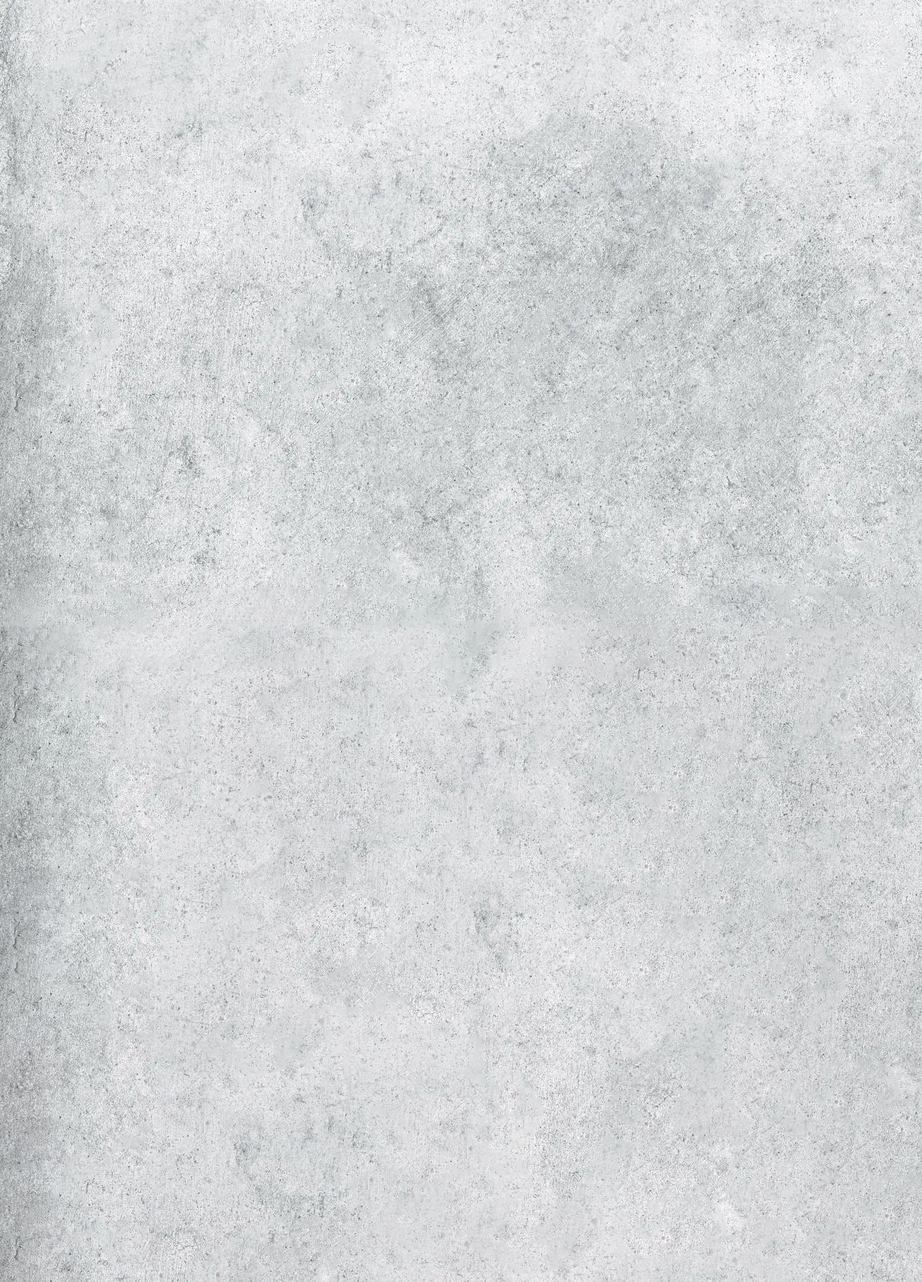
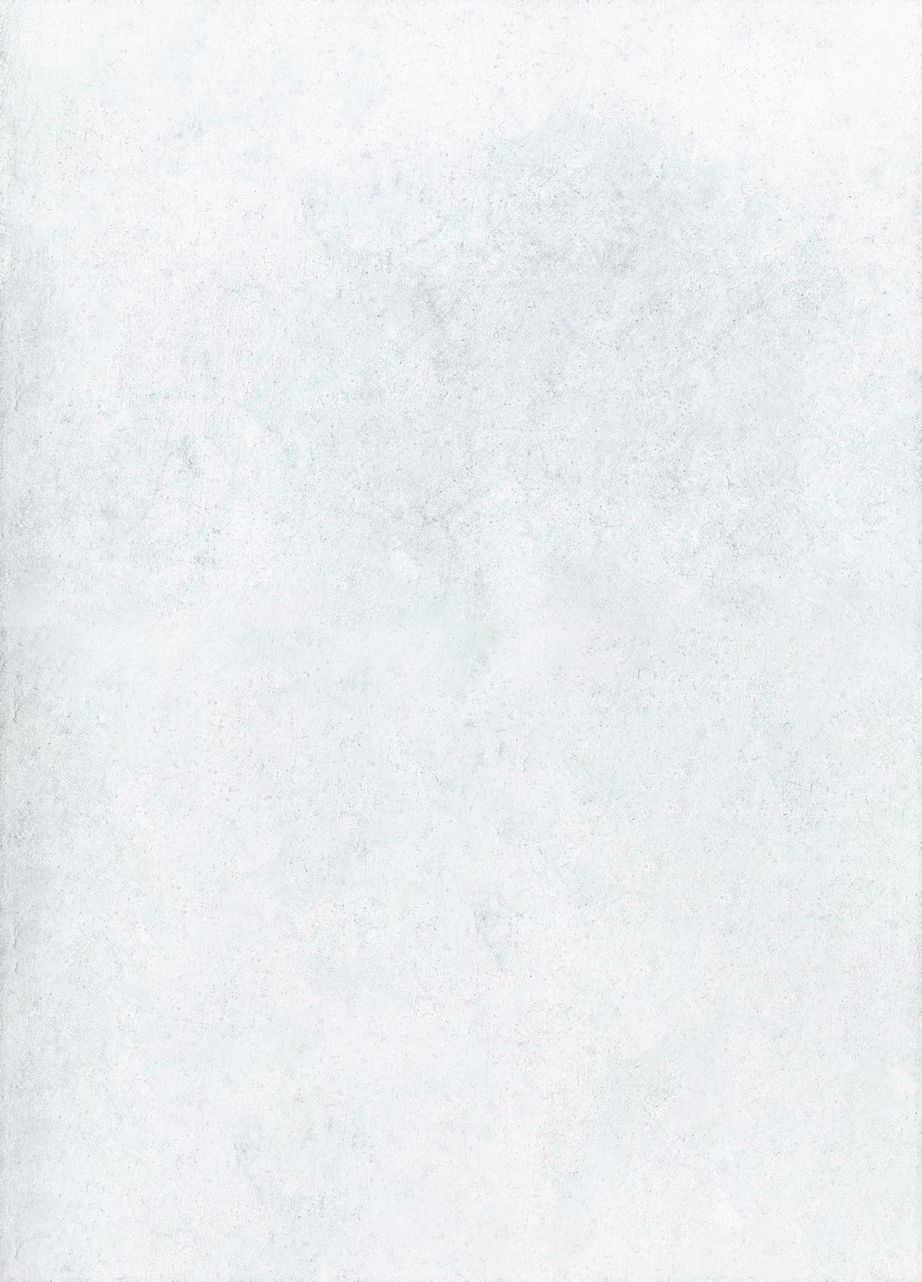
update: inicio, test 1

diff --git a/STANNUM-FrontEnd/src/Pages/Inicio/Inicio.jsx b/STANNUM-FrontEnd/src/Pages/Inicio/Inicio.jsx
@@ -6,10 +6,60 @@ function Inicio() {
   return (
     <>
       <div className='d-flex flex-column align-items-center'>
-        <div className='text-center mt-5'><h1 className='tituloBienvenido'>¡Bienvenido a<br/><span className='tituloBienvenidoVerde'>Stannum Academy!</span></h1></div>
-        <div className='parrafoBienvenidaCentro text-center'><p>Este es el <b>centro de alto rendimiento</b> en donde podrás adquirir los conocimientos y las habilidades necesarias para llevar a tu emprendimiento al siguiente nivel</p></div>
-        <div className='text-center mt-5'><h2 className='tusPrimerosPasos'>Tus primeros pasos</h2></div>
+        <div className='text-center mt-5'><h1 className='tituloBienvenido'>¡Bienvenido a</h1></div>
+        <div className='text-center'><h1 className='tituloBienvenidoVerde'>Stannum Academy!</h1></div>
+        <div className='parrafoBienvenidaCentro text-center'><p>Este es el <b>centro de alto rendimiento</b> en donde podrás adquirir los conocimientos y las habilidades necesarias para llevar a tu emprendimiento al siguiente nivel.</p></div>
+        <div className='text-center mt-4'><h2 className='tusPrimerosPasos'>Tus primeros pasos</h2></div>
+        <div className='parrafoPrimerosPasos text-center'><p>Para poder comenzar tu camino dentro de Stannum Academy es necesario que completes los siguientes Tests de Dominio, ¡la información obtenida de ellos nos permitirá construir tu plantilla de jugador!.</p></div>
       </div>
+      <div className='contenedorCardsTest'>
+        <div className='text-center seleccioneTestTitulo'>Seleccione el Test que<br/>desea responder</div>
+        <div className='d-flex flex-column align-items-center flex-wrap cajaCardsTest'>
+          <div className='d-flex justify-content-evenly flexCardsTests'>
+            <div className='cardTest'>
+              <div className='tituloDominio tituloDominio1 text-center'>DOMINIO 1</div>
+              <div className='subtituloDominio tituloDominio1 text-center'>DIRECTIVO</div>
+              <hr className='hrDominio'/>
+              <a href='/Test/Dominio/Directivo'>
+                <button className='botonDominio botonDominio1'>Hacer el test</button>
+              </a>
+            </div>
+            <div className='cardTest'>
+              <div className='tituloDominio tituloDominio2 text-center'>DOMINIO 2</div>
+              <div className='subtituloDominio tituloDominio2 text-center'>TIEMPO</div>
+              <hr className='hrDominio'/>
+              <button className='botonDominio botonDominio2' disabled="true">Próximamente</button>
+            </div>
+            <div className='cardTest'>
+              <div className='tituloDominio tituloDominio3 text-center'>DOMINIO 3</div>
+              <div className='subtituloDominio tituloDominio3 text-center'>COMUNICACION</div>
+              <hr className='hrDominio'/>
+              <button className='botonDominio botonDominio3' disabled="true">Próximamente</button>
+            </div>
+          </div>
+          <div className='d-flex justify-content-evenly flexCardsTests'>
+            <div className='cardTest'>
+              <div className='tituloDominio tituloDominio4 text-center'>DOMINIO 4</div>
+              <div className='subtituloDominio tituloDominio4 text-center'>DELEGACION</div>
+              <hr className='hrDominio'/>
+              <button className='botonDominio botonDominio4' disabled="true">Próximamente</button>
+            </div>
+            <div className='cardTest'>
+              <div className='tituloDominio tituloDominio5 text-center'>DOMINIO 5</div>
+              <div className='subtituloDominio tituloDominio5 text-center'>ORGANIZACION</div>
+              <hr className='hrDominio'/>
+              <button className='botonDominio botonDominio5' disabled="true">Próximamente</button>
+            </div>
+            <div className='cardTest'>
+              <div className='tituloDominio tituloDominio6 text-center'>DOMINIO 6</div>
+              <div className='subtituloDominio tituloDominio6 text-center'>PLANIFICACION</div>
+              <hr className='hrDominio'/>
+              <button className='botonDominio botonDominio6' disabled="true">Próximamente</button>
+            </div>
+          </div>
+        </div>
+      </div>
+      
     </>
   )
 }

diff --git a/STANNUM-FrontEnd/src/Pages/Inicio/inicio.css b/STANNUM-FrontEnd/src/Pages/Inicio/inicio.css
@@ -32,3 +32,139 @@
     line-height: 45px;
     color: #67CCB9;
 }
+
+.parrafoPrimerosPasos{
+    margin-top: 0rem;
+    width: 40%;
+    font-weight: 400;
+    font-size: 1.2rem;
+    line-height: 1.8rem;
+    text-align: center;
+    color: #505050;
+}
+
+.contenedorCardsTest{
+    margin-top: 3rem;
+    width: 100%;
+    padding-top: 3rem;
+    background-color: #67cfbc;
+    background-image: url("../../assets/Concrete.png");
+    background-size: cover;
+    background-repeat: no-repeat;
+    background-blend-mode: multiply;
+    padding-bottom: 4rem;
+}
+
+.seleccioneTestTitulo{
+    margin: auto;
+    font-weight: 600;
+    font-size: 2.6rem;
+    line-height: 2.6rem;
+    color: #FFFFFF;
+}
+
+.cajaCardsTest{
+    width: 100%;
+}
+
+.cardTest {
+    padding: 2rem;
+    width: 20%;
+    background-color: white;
+    box-shadow: 0px 5.39818px 10.7964px -1.34954px rgba(0, 0, 0, 0.25);
+    border-radius: 10.7964px;
+}
+
+.tituloDominio{
+    text-align: center;
+    font-weight: 900;
+    font-size: 1.9rem;
+}
+
+.subtituloDominio{
+    text-align: center;
+    font-weight: 900;
+    font-size: 1.6rem;
+    margin-top: -1rem;
+}
+
+.tituloDominio1{
+    color: #CD0133;
+}
+
+.tituloDominio2{
+    color: #35B4B6;
+}
+
+.tituloDominio3{
+    color: #FFCA1A;
+}
+
+.tituloDominio4{
+    color: #4EA86A;
+}
+
+.tituloDominio5{
+    color: #FE832F;
+}
+
+.tituloDominio6{
+    color: #6A279B;
+}
+
+
+.hrDominio{
+    width: 90%;
+    background-color: #4F4F4F;
+    margin: auto;
+    margin-top: 1.5rem;
+    margin-bottom: 1.5rem;
+}
+
+.botonDominio{
+    width: 100%;
+    border-radius: 5.39818px;
+    padding-block: 1rem;
+    font-size: 1.3rem;
+}
+
+.botonDominio1{
+    background: #CD0133;
+    border: 1.34954px solid #CD0133;
+    color: white;
+}
+
+.botonDominio2{
+    background: #FFFFFF;
+    color: #4EBDBF;
+    border: 2.69909px dashed #4EBDBF;
+}
+
+.botonDominio3{
+    background: #FFFFFF;
+    color: #FFCA1A;
+    border: 2.69909px dashed #FFCA1A;
+}
+
+.botonDominio4{
+    background: #FFFFFF;
+    color: #4EA86A;
+    border: 2.69909px dashed #4EA86A;
+}
+
+.botonDominio5{
+    background: #FFFFFF;
+    color: #FE832F;
+    border: 2.69909px dashed #FE832F;
+}
+
+.botonDominio6{
+    background: #FFFFFF;
+    color: #6A279B;
+    border: 2.69909px dashed #6A279B;
+}
+
+.flexCardsTests{
+    width: 70%;
+    margin-top: 3rem;
+}

diff --git a/STANNUM-FrontEnd/src/Pages/TestDirectivo/TestDirectivo.jsx b/STANNUM-FrontEnd/src/Pages/TestDirectivo/TestDirectivo.jsx
@@ -1,0 +1,19 @@
+import React from 'react'
+import './testDirectivo.css'
+
+function TestDirectivo() {
+  return (
+    <>
+        <div className='d-flex flex-column align-items-center'>
+            <div className='text-center mt-5'><h1 className='tituloDominio1Test'>Test de Dominio 1</h1></div>
+            <div className='text-center'><h1 className='tituloDominio1TestRojo'>DIRECTIVO</h1></div>
+            <div className='parrafoBienvenidaCentro text-center'><p>¡En este test se pondrán a prueba tus conocimientos sobre las capacidades directivas para saber que tipo de perfil tienes!</p></div>
+            <div className='text-center mt-4'><h2 className='importanteDominio1TestRojo'>¡Importante!</h2></div>
+            <div className='parrafoImportanteDominio1Test text-center'><p>El test dura aproximadamente 20 minutos y solo podrás hacerlo una vez al iniciar.</p></div>
+            <div className='parrafoImportanteDominio1Test text-center'><p>En un futuro los test se volverán a habilitar para ir midiendo tu evolución</p></div>
+        </div>
+    </>
+  )
+}
+
+export default TestDirectivo

diff --git a/STANNUM-FrontEnd/src/Pages/TestDirectivo/testDirectivo.css b/STANNUM-FrontEnd/src/Pages/TestDirectivo/testDirectivo.css
@@ -1,0 +1,44 @@
+.tituloDominio1Test{
+    font-family: 'Anton', sans-serif;
+    font-weight: 400;
+    font-size: 5rem;
+    line-height: 5rem;
+    text-align: center;
+    color: #3A3A3A;
+}
+
+.tituloDominio1TestRojo{
+    font-family: 'Anton', sans-serif;
+    font-weight: 400;
+    font-size: 5rem;
+    line-height: 5rem;
+    text-align: center;
+    color: #D3214D;
+}
+
+.parrafoBienvenidaCentro{
+    margin-top: 2rem;
+    width: 40%;
+    font-weight: 400;
+    font-size: 1.2rem;
+    line-height: 1.8rem;
+    text-align: center;
+    color: #505050;
+}
+
+.importanteDominio1TestRojo{
+    font-weight: 700;
+    font-size: 30px;
+    line-height: 45px;
+    color: #D3214D;
+}
+
+.parrafoImportanteDominio1Test{
+    margin-top: 0rem;
+    width: 30%;
+    font-weight: 400;
+    font-size: 1.2rem;
+    line-height: 1.8rem;
+    text-align: center;
+    color: #505050;
+}

diff --git a/STANNUM-FrontEnd/src/Pages/Login/Login.jsx b/STANNUM-FrontEnd/src/Pages/Login/Login.jsx
@@ -1,6 +1,6 @@
 import React from 'react'
 import './login.css'
-import imagenLogin from '../../assets/Concrete.png'
+import imagenLogin from '../../assets/Login.png'
 import iconoStannum from '../../assets/LogoColor.png'
 import FormularioLogin from '../../Components/FormularioLogin/FormularioLogin'
 
@@ -8,9 +8,8 @@ function Login() {
   return (
     <>
         <div className='row w-100 align-items-stretch vh-100'>
-            <div className='col-6'>
+            <div className='col-6 p-0'>
                 <img src={imagenLogin} alt="Iniciar Sesion" className='w-100 imagenLogin'/>
-                <img src={iconoStannum} alt="Logo STANNUM" className='logoStannumLogin'/>
             </div>
             <div className='col-6 bg-white d-flex align-items-center formularioLoginDiv'>
                 <div>

diff --git a/STANNUM-FrontEnd/src/App.jsx b/STANNUM-FrontEnd/src/App.jsx
@@ -1,10 +1,11 @@
 import React from 'react'
 import { Route, Routes } from "react-router-dom";
 import './App.css'
+import Footer from './Components/Footer/Footer';
 import NavBar from './Components/NavBar/NavBar';
 import Inicio from './Pages/Inicio/Inicio';
 import Login from './Pages/Login/Login';
-import Test from './Pages/Test/test';
+import TestDirectivo from './Pages/TestDirectivo/TestDirectivo';
 
 function App() {
 
@@ -15,8 +16,9 @@ function App() {
     <Routes>
       <Route path="/Iniciar-sesion" element={<Login/>} />
       <Route path="/" element={<Inicio/>} />
-      <Route path="/Test" element={<Test/>} />
+      <Route path="/Test/Dominio/Directivo" element={<TestDirectivo/>} />
     </Routes>
+    <Footer/>
     
     </>
 

diff --git a/STANNUM-FrontEnd/src/App.css b/STANNUM-FrontEnd/src/App.css
@@ -1,9 +1,23 @@
 *{
     font-family: 'Poppins', sans-serif; 
 }
+/* 
+body:not(.bg-white):not(.crear-usuario):not(.crear-edificio) {
+    background: url("../src/assets/fondo.jpg") no-repeat center center fixed;
+    background-size: cover;
+  } */
+
+/* document.body.classList.add('crear-usuario'); */
 
 /* font-family: 'Anton', sans-serif;
 font-family: 'Poppins', sans-serif; */
+
+body{
+    background-color: #FFFFFF;
+    background-image: url("../src/assets/Concrete.png");
+    background-size: cover;
+    background-blend-mode: multiply;
+} 
 
 input:-webkit-autofill,
 input:-webkit-autofill:hover,

diff --git a/STANNUM-FrontEnd/src/Components/Footer/Footer.jsx b/STANNUM-FrontEnd/src/Components/Footer/Footer.jsx
@@ -1,0 +1,16 @@
+import React from 'react'
+import logoStannum from '../../assets/LogoChico.png'
+import './footer.css'
+
+function Footer() {
+  return (
+    <>
+        <div className="footer text-center">
+            <img src={logoStannum} className="footerImagen" alt="Logo Stannum Footer" />
+            {/* <span className='text-muted'><small>&copy; 2023 <b>XPLAY</b> - Todos los derechos reservados - Powered by <b>Coilin</b> - V 1.0.8</small></span> */}
+        </div>
+    </>
+  )
+}
+
+export default Footer

diff --git a/STANNUM-FrontEnd/src/Components/Footer/footer.css b/STANNUM-FrontEnd/src/Components/Footer/footer.css
@@ -1,0 +1,12 @@
+.footer{
+    background-color: #3A3A3A;
+    background-image: url("../../assets/ConcreteIntenso.png");
+    background-size: cover;
+    background-blend-mode: multiply;
+    padding: 2rem;
+    text-align: center;
+}
+
+.footerImagen{
+    width: 200px;
+}

diff --git a/STANNUM-FrontEnd/src/Pages/Login/login.css b/STANNUM-FrontEnd/src/Pages/Login/login.css
@@ -1,5 +1,8 @@
 .imagenLogin{
+    min-height: 100vh;   
     max-height: 100vh;   
+    object-fit: cover;
+
 }
 
 .stannumAcademyTituloLogin{
